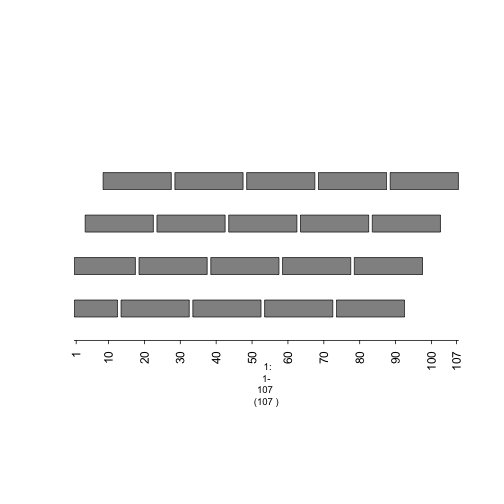
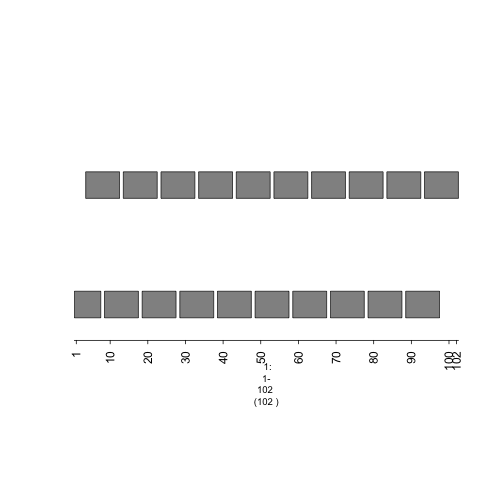
edit small vignette

diff --git a/rtdocs/vignetteSmallDS/vignetteSmallDS.rst b/rtdocs/vignetteSmallDS/vignetteSmallDS.rst
@@ -33,7 +33,7 @@ gTrack(gr + n) - specify degree of overlap
 .. sourcecode:: r
     
 
-    plot(gTrack(gr+7))
+    plot(gTrack(gr+2))
 
 .. figure:: figure/plot-overlappingtiles-1.png
     :alt: plot of chunk plot-overlappingtiles
